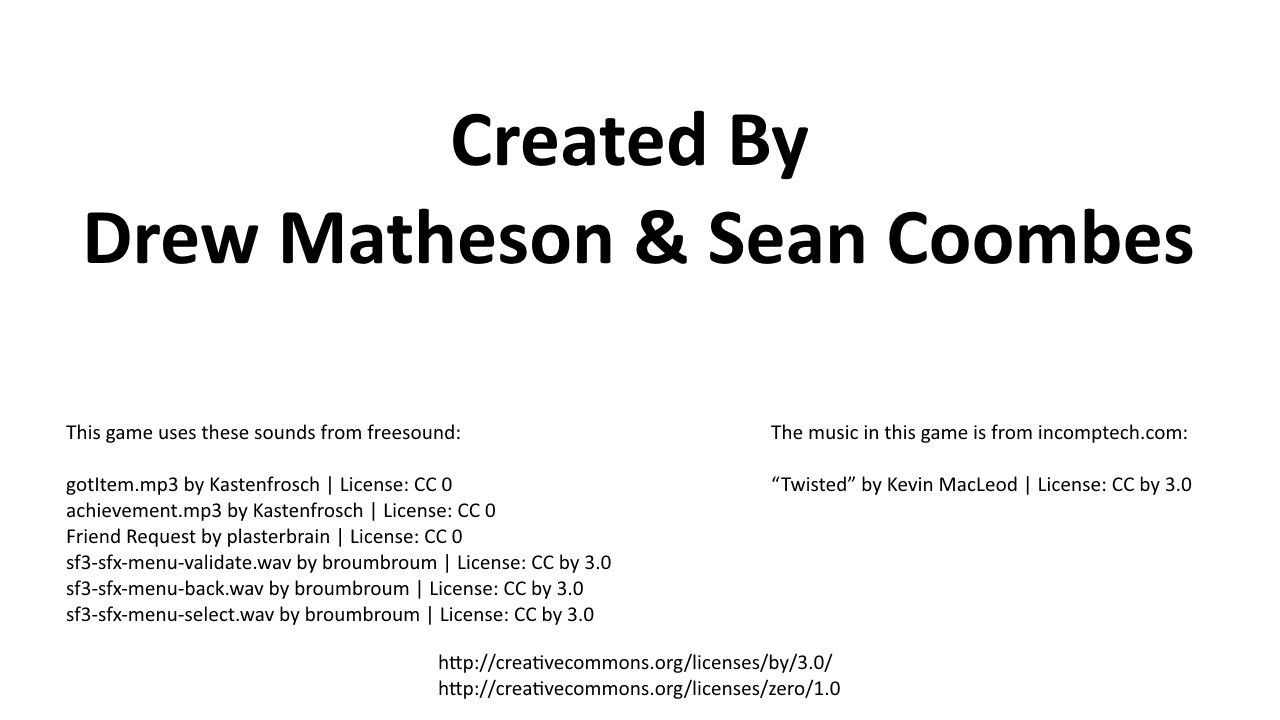
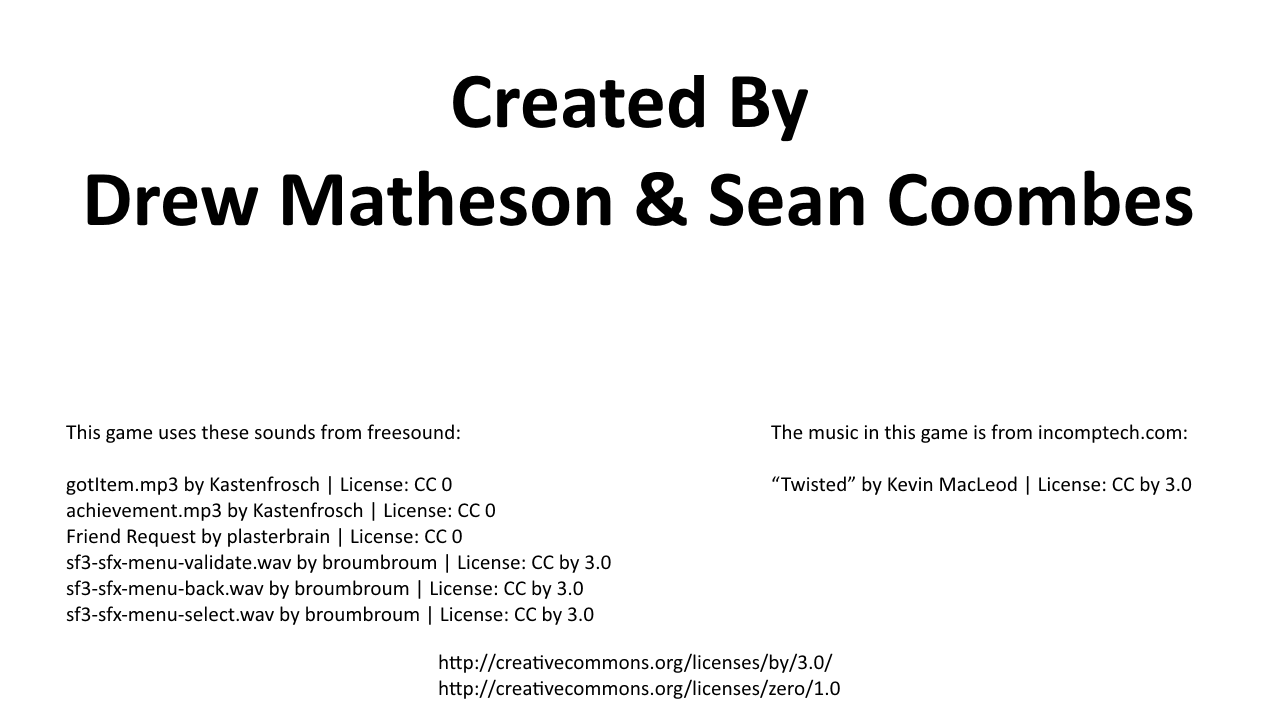
Made the header font match the title text in images. Cleaned up MenuScene. Added a folder to all the save/load logic. Refactored UpdateScoreDisplays in HighScoreScene. Fixed up comments.

Changed region(s): [[0.0625, 0.0917, 0.9375, 0.3667]]

diff --git a/HelicopterMadness/HelicopterMadness/Scenes/HighScoreScene.cs b/HelicopterMadness/HelicopterMadness/Scenes/HighScoreScene.cs
@@ -37,6 +37,8 @@ namespace HelicopterMadness.Scenes
         private static int highestScore;
 
         private readonly string scorepath;
+        private readonly string saveFolderPath;
+
         private readonly List<HighScoreEntry> highScoreEntries;
         private readonly TextDisplay[] scoreDisplays;
         private readonly FlashingTextDisplay helpMessage;
@@ -52,8 +54,6 @@ namespace HelicopterMadness.Scenes
 
         private int newScoreIndex;
         private int inputIndex;
-
-        private Vector2 titleDimensions;
 
         private KeyboardState oldKeyboardState;
         private MouseState oldMouseState;
@@ -92,8 +92,11 @@ namespace HelicopterMadness.Scenes
         {
             highScoreEntries = new List<HighScoreEntry>();
 
-            scorepath = Path.Combine(Environment.GetFolderPath(Environment.SpecialFolder.ApplicationData),
-                SharedSettings.HIGHSCORE_FILE_NAME);
+            saveFolderPath = Path.Combine(
+                Environment.GetFolderPath(Environment.SpecialFolder.ApplicationData),
+                SharedSettings.SAVE_FOLDER_NAME);
+
+            scorepath = Path.Combine(saveFolderPath, SharedSettings.HIGHSCORE_FILE_NAME);
 
             SetUpHighScoreEntries();
 
@@ -107,9 +110,9 @@ namespace HelicopterMadness.Scenes
             newHighScoreSound = Game.Content.Load<SoundEffect>("Sounds/NewHighScore").CreateInstance();
             newHighScoreSound.Volume = 0.6f;
 
-            titleDimensions = headerFont.MeasureString("High Scores");
-
-            Vector2 titlePos = new Vector2((SharedSettings.Stage.X - titleDimensions.X) / 2, 50f);
+            Vector2 titlePos = new Vector2(
+                (SharedSettings.Stage.X - headerFont.MeasureString("High Scores").X) / 2,
+                SharedSettings.TITLE_POSITION_Y);
 
             TextDisplay titleDisplay = new TextDisplay(game, spriteBatch, headerFont, titlePos,
                 SharedSettings.TitleTextColor, "High Scores");
@@ -258,13 +261,13 @@ namespace HelicopterMadness.Scenes
         /// </summary>
         private void SetUpHighScoreEntries()
         {           
-            // TODO: this needs to be removed before handing in
-#if DEBUG
-            File.Delete(scorepath);
-#endif
-
             if (File.Exists(scorepath))
             {
+
+#if DEBUG       // TODO: this needs to be removed before handing in
+                File.Delete(scorepath);
+#endif
+
                 try
                 {
                     using (StreamReader scores = File.OpenText(scorepath))
@@ -328,27 +331,30 @@ namespace HelicopterMadness.Scenes
         /// </summary>
         private void UpdateScoreDisplays()
         {
-            float yCoord = titleDimensions.Y * 2;
-            float xCoord = 0;
+            if (scoreDisplays.Length <= 0 || highScoreEntries.Count <= 0)
+            {
+                return;
+            }
 
+            Vector2 scoreDisplaySize = scoreDisplays[0].Font.MeasureString(
+                string.Format("{0}. {1}", 1, highScoreEntries[0]));
+
+            float lineHeight = scoreDisplaySize.Y;
+
+            float yCoord = SharedSettings.StageCenter.Y - (lineHeight * NUMBER_OF_SCORE_ENTRIES / 2f) - 
+                lineHeight;
+
+            float xCoord = (SharedSettings.Stage.X - scoreDisplaySize.X) / 2f;
+            
             for (int i = 0; i < NUMBER_OF_SCORE_ENTRIES; i++)
             {
                 TextDisplay currentScoreDisplay = scoreDisplays[i];
 
                 currentScoreDisplay.Message = string.Format("{0}. {1}", i + 1, highScoreEntries[i]);
 
-                Vector2 scoreDisplaySize = currentScoreDisplay.Font.MeasureString(currentScoreDisplay.Message);
+                yCoord += lineHeight;
 
-                if (i == 0)
-                {
-                    xCoord = scoreDisplaySize.X / 2;
-                }
-                else
-                {
-                    yCoord += scoreDisplaySize.Y;
-                }
-
-                currentScoreDisplay.Position = new Vector2(SharedSettings.Stage.X / 2 - xCoord, yCoord);
+                currentScoreDisplay.Position = new Vector2(xCoord, yCoord);
             }
         }
 
@@ -390,6 +396,11 @@ namespace HelicopterMadness.Scenes
         {
             try
             {
+                if (!Directory.Exists(saveFolderPath))
+                {
+                    Directory.CreateDirectory(saveFolderPath);
+                }
+                
                 using (StreamWriter scoresWriter = new StreamWriter(scorepath))
                 {
                     foreach (HighScoreEntry itemEntry in highScoreEntries)
@@ -398,7 +409,7 @@ namespace HelicopterMadness.Scenes
                     }
                 }
             }
-            catch (Exception ex)
+            catch (Exception ignored)
             {
                 // TODO: Decide whether we display a message on screen or not
             }
@@ -407,13 +418,12 @@ namespace HelicopterMadness.Scenes
         /// <summary>
         ///     Sets the position for the new highscore message
         /// </summary>
-        /// <returns>the position for the string</returns>
         private void RepositionHelpMessage()
         {
             Vector2 helpDimensions = helpMessage.Font.MeasureString(helpMessage.Message);
 
             helpMessage.Position = new Vector2(SharedSettings.StageCenter.X - helpDimensions.X / 2,
-                SharedSettings.Stage.Y - SharedSettings.Stage.Y / 4);
+                SharedSettings.Stage.Y - SharedSettings.Stage.Y / 4f);
         }
     }
 }

diff --git a/HelicopterMadness/HelicopterMadness/Scenes/MenuScene.cs b/HelicopterMadness/HelicopterMadness/Scenes/MenuScene.cs
@@ -22,6 +22,9 @@ namespace HelicopterMadness.Scenes
     /// </summary>
     public class MenuScene : GameScene
     {
+        private const string TITLE_MESSAGE = "Helicopter Madness";
+        private const string HELP_MESSAGE = "Use Arrow Keys to Navigate and Enter to Select";
+
         private readonly MenuComponent menu;
         private readonly SceneManager sceneManager;
         private readonly FlashingTextDisplay helpDisplay;
@@ -46,21 +49,21 @@ namespace HelicopterMadness.Scenes
             menu = new MenuComponent(game, spriteBatch, regularFont, highlightFont, menuItems,
                 selectionChangeSound);
 
-            string titleMessage = "Helicopter Madness";
+            Vector2 titlePosition = new Vector2(
+                (SharedSettings.Stage.X - headerFont.MeasureString(TITLE_MESSAGE).X) / 2f,
+                SharedSettings.TITLE_POSITION_Y);
 
-            Vector2 titlePosition = new Vector2((SharedSettings.Stage.X - headerFont.MeasureString(titleMessage).X) / 2f, 50f);
+            TextDisplay title = new TextDisplay(game, spriteBatch, headerFont, titlePosition,
+                SharedSettings.TitleTextColor, TITLE_MESSAGE);
 
-            TextDisplay title = new TextDisplay(
-                game, spriteBatch, headerFont, titlePosition, SharedSettings.TitleTextColor, titleMessage);
+            Vector2 helpPosition = new Vector2(
+                (SharedSettings.Stage.X - highlightFont.MeasureString(HELP_MESSAGE).X) / 2f,
+                SharedSettings.Stage.Y - SharedSettings.Stage.Y / 4f);
 
-            string helpMessage = "Use Arrow Keys to Navigate and Enter to Select";
-
-            Vector2 helpPosition = new Vector2((SharedSettings.Stage.X - highlightFont.MeasureString(helpMessage).X) / 2f,
-                    (SharedSettings.Stage.Y - SharedSettings.Stage.Y / 4f));
-
-            helpDisplay = new FlashingTextDisplay(game, spriteBatch, highlightFont, Color.Black, SharedSettings.BLINK_RATE)
+            helpDisplay = new FlashingTextDisplay(game, spriteBatch, highlightFont, Color.Black,
+                SharedSettings.BLINK_RATE)
             {
-                Message = helpMessage,
+                Message = HELP_MESSAGE,
                 Position = helpPosition
             };
 

diff --git a/HelicopterMadness/HelicopterMadness/HelicopterGame.cs b/HelicopterMadness/HelicopterMadness/HelicopterGame.cs
@@ -5,7 +5,13 @@
  *      Drew Matheson, 2014.11.05: Created
  */
 
-using System;
+#if DEBUG
+
+    #define SHOW_FPS
+    using System;
+
+#endif
+
 using Microsoft.Xna.Framework;
 using Microsoft.Xna.Framework.Graphics;
 
@@ -16,7 +22,7 @@ namespace HelicopterMadness
     /// </summary>
     public class HelicopterGame : Game
     {
-#if DEBUG
+#if SHOW_FPS
         SpriteFont spriteFont;
 
         int frameRate = 0;
@@ -67,7 +73,7 @@ namespace HelicopterMadness
 
             sceneManager = new SceneManager(this, spriteBatch);
 
-#if DEBUG
+#if SHOW_FPS
             spriteFont = Content.Load<SpriteFont>("Fonts/FrameRate");
 #endif
             Components.Add(sceneManager);
@@ -82,7 +88,8 @@ namespace HelicopterMadness
             if (IsActive) // TODO: Worth doing? Pauses game when the window is not in focus
             {
                 base.Update(gameTime);
-#if DEBUG
+
+#if SHOW_FPS
                 elapsedTime += gameTime.ElapsedGameTime;
 
                 if (elapsedTime > TimeSpan.FromSeconds(1))
@@ -104,16 +111,17 @@ namespace HelicopterMadness
             GraphicsDevice.Clear(bufferColor);
 
             spriteBatch.Begin(SpriteSortMode.BackToFront, BlendState.AlphaBlend);
-#if DEBUG
+
+            base.Draw(gameTime);
+
+#if SHOW_FPS
             frameCounter++;
 
             string fps = string.Format("fps: {0}", frameRate);
-#endif
-            base.Draw(gameTime);
-#if DEBUG           
+         
             spriteBatch.DrawString(spriteFont, fps, new Vector2(33, 33), Color.Black);
-            spriteBatch.DrawString(spriteFont, fps, new Vector2(32, 32), Color.White);
 #endif
+
             spriteBatch.End();
         }
     }

diff --git a/HelicopterMadness/HelicopterMadness/SharedSettings.cs b/HelicopterMadness/HelicopterMadness/SharedSettings.cs
@@ -36,6 +36,11 @@ namespace HelicopterMadness
         public const string HIGHSCORE_FILE_NAME = "Highscore.txt";
 
         /// <summary>
+        ///     The folder name for the game
+        /// </summary>
+        public const string SAVE_FOLDER_NAME = "Helicopter Madness";
+
+        /// <summary>
         ///     The maximum number of characters in a highscore name
         /// </summary>
         public const int MAX_NAME_CHARS = 3;
@@ -45,6 +50,14 @@ namespace HelicopterMadness
         /// </summary>
         public const int BLINK_RATE = 100;
 
+        /// <summary>
+        ///     The Y Position for title messages
+        /// </summary>
+        public const float TITLE_POSITION_Y = 52f;
+
+        /// <summary>
+        ///     The color for title text
+        /// </summary>
         public static readonly Color TitleTextColor = Color.Black;
 
         /// <summary>

diff --git a/HelicopterMadness/HelicopterMadness/Scenes/ActionComponents/Helicopter.cs b/HelicopterMadness/HelicopterMadness/Scenes/ActionComponents/Helicopter.cs
@@ -29,6 +29,9 @@ namespace HelicopterMadness.Scenes.ActionComponents
 
         private Vector2 speed;
 
+        /// <summary>
+        ///     Flag representing if the helicopter has collided and crashed
+        /// </summary>
         public bool HasCrashed { get; private set; }
 
         /// <summary>
@@ -97,6 +100,11 @@ namespace HelicopterMadness.Scenes.ActionComponents
             }
         }
 
+        /// <summary>
+        /// Called when the Enabled property changes. Raises the EnabledChanged event.
+        /// </summary>
+        /// <param name="sender">The GameComponent.</param>
+        /// <param name="args">Arguments to the EnabledChanged event.</param>
         protected override void OnEnabledChanged(object sender, EventArgs args)
         {
             soundEffect.Pause();

diff --git a/HelicopterMadness/HelicopterMadness/Scenes/MenuComponents/MenuComponent.cs b/HelicopterMadness/HelicopterMadness/Scenes/MenuComponents/MenuComponent.cs
@@ -37,6 +37,7 @@ namespace HelicopterMadness.Scenes.MenuComponents
         /// <param name="regularFont">The regular font for the unselected menu entries</param>
         /// <param name="highlightFont">The highlight font for the selected menu entry</param>
         /// <param name="menuEntries">The list of strings for the menu entries</param>
+        /// <param name="selectionChangeSound">The sound to play when the menu selection is changed</param>
         public MenuComponent(Game game, SpriteBatch spriteBatch, SpriteFont regularFont,
             SpriteFont highlightFont, IList<string> menuEntries, SoundEffect selectionChangeSound)
             : base(game)

diff --git a/HelicopterMadness/HelicopterMadness/Scenes/CommonComponents/TextDisplay.cs b/HelicopterMadness/HelicopterMadness/Scenes/CommonComponents/TextDisplay.cs
@@ -73,7 +73,6 @@ namespace HelicopterMadness.Scenes.CommonComponents
         /// <param name="spriteBatch">The SpriteBatch the TextDisplay will draw itself with</param>
         /// <param name="font">The font used for the TextDisplay</param>
         /// <param name="color">The color of the TextDisplay's text</param>
-        /// <param name="message">The text to be displayed</param>
         public TextDisplay(Game game, SpriteBatch spriteBatch, SpriteFont font, Color color)
             : this(game, spriteBatch, font, Vector2.Zero, color, string.Empty)
         { }

diff --git a/HelicopterMadness/HelicopterMadness/Scenes/HighScoreComponents/HighScoreEntry.cs b/HelicopterMadness/HelicopterMadness/Scenes/HighScoreComponents/HighScoreEntry.cs
@@ -18,11 +18,11 @@ namespace HelicopterMadness.Scenes.HighScoreComponents
 
         private readonly int paddingWidth;
 
+        private string name;
+
         /// <summary>
         ///     The player name for the entry
         /// </summary>
-        private string name;
-
         public string Name
         {
             get
